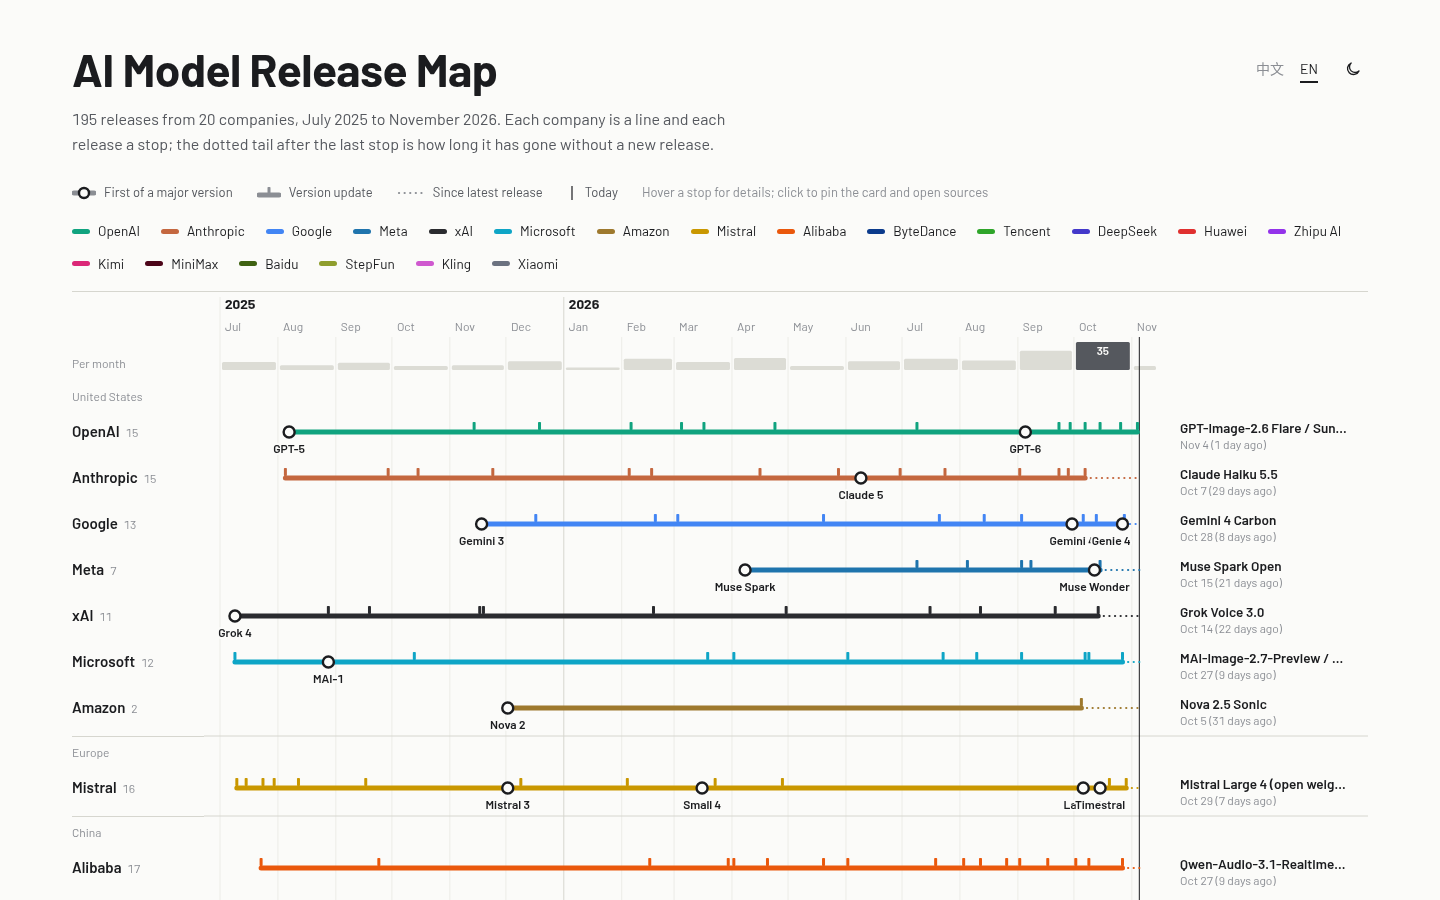
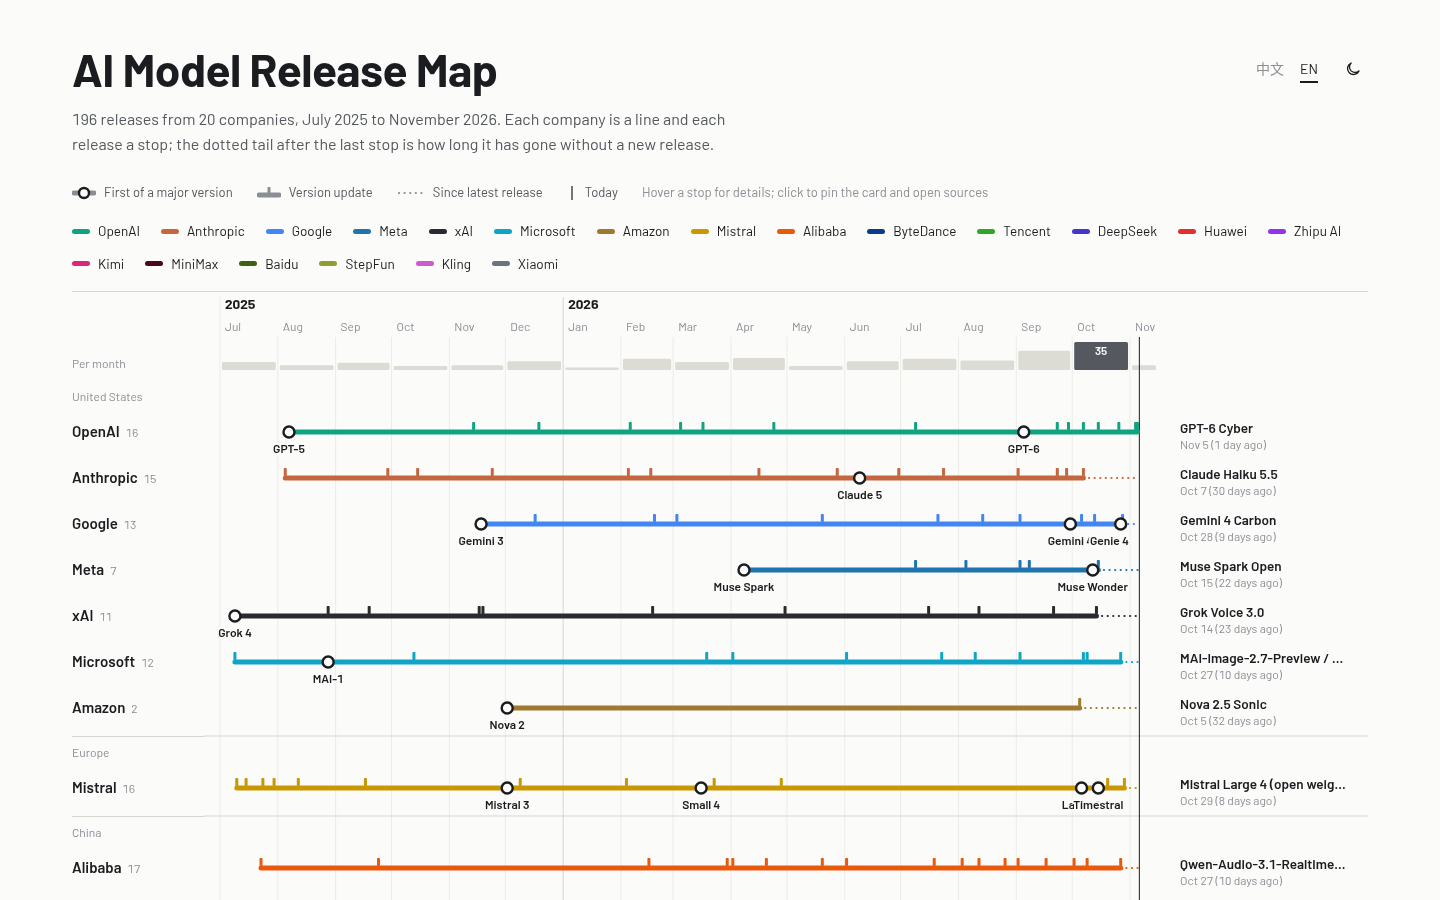
Add OpenAI GPT-6 Cyber (2026-11-05 official)

diff --git a/index.html b/index.html
@@ -192,6 +192,7 @@ const DATA=[
 {company:"OpenAI",model:"GPT-Live-1.1 / GPT-Live-1.1 Quip",date:"2026-10-15",source:"https://deploymentsafety.openai.com/gpt-live-1-1"},
 {company:"OpenAI",model:"GPT-6.1 Terra",date:"2026-10-26",source:"https://openai.com/index/introducing-gpt-6-1-terra"},
 {company:"OpenAI",model:"GPT-Image-2.6 Flare / Sunburst",date:"2026-11-04",source:"https://openai.com/index/introducing-images-2-6"},
+{company:"OpenAI",model:"GPT-6 Cyber",date:"2026-11-05",source:"https://openai.com/index/introducing-gpt-6-cyber/"},
 {company:"Anthropic",model:"Claude Opus 4.1",date:"2025-08-05",source:"https://www.anthropic.com/news/claude-opus-4-1"},
 {company:"Anthropic",model:"Claude Sonnet 4.5",date:"2025-09-29",source:"https://www.anthropic.com/news/claude-sonnet-4-5"},
 {company:"Anthropic",model:"Claude Haiku 4.5",date:"2025-10-15",source:"https://www.anthropic.com/news/claude-haiku-4-5"},
@@ -392,14 +393,14 @@ zh:{title:"AI 模型发布线路图",
  latestH:"各公司最新一站",groups:{us:"美国",eu:"欧洲",cn:"中国"},monthly:"每月发布",mon:m=>`${m}月`,d:(m,d)=>`${m}月${d}日`,full:(y,m,d)=>`${y}年${m}月${d}日`,
  ago:n=>n<=0?"今天":`${n} 天前`,sub:(dt,ago)=>`${dt}（${ago}）`,count:n=>`${n} 次`,off:"官方",third:"第三方",
  tbl:n=>`以表格查看全部 ${n} 次发布`,cols:["日期","公司","模型","来源"],filt:"显示或隐藏线路",themeL:"切换深浅色",
- foot:'数据来源：<a href="https://modeltimeline.com/zh/" target="_blank" rel="noopener">modeltimeline.com/zh</a>、<a href="https://www.datalearner.com/whats-new" target="_blank" rel="noopener">DataLearner</a>、各公司官方公告（OpenAI、Anthropic、Google、Meta、阿里云、DeepSeek、Kimi、字节跳动 Seed、腾讯、华为、xAI、Microsoft AI、Amazon、Mistral、MiniMax、百度、阶跃星辰、快手可灵、小米 MiMo 等）及新闻报道。仅收录在来源中实际查到的条目，同一天发布的多个型号合并为一站。整理日期：2026-11-05。'},
+ foot:'数据来源：<a href="https://modeltimeline.com/zh/" target="_blank" rel="noopener">modeltimeline.com/zh</a>、<a href="https://www.datalearner.com/whats-new" target="_blank" rel="noopener">DataLearner</a>、各公司官方公告（OpenAI、Anthropic、Google、Meta、阿里云、DeepSeek、Kimi、字节跳动 Seed、腾讯、华为、xAI、Microsoft AI、Amazon、Mistral、MiniMax、百度、阶跃星辰、快手可灵、小米 MiMo 等）及新闻报道。仅收录在来源中实际查到的条目，同一天发布的多个型号合并为一站。整理日期：2026-11-06。'},
 en:{title:"AI Model Release Map",
  lede:(n,c)=>`${n} releases from ${c} companies, July 2025 to November 2026. Each company is a line and each release a stop; the dotted tail after the last stop is how long it has gone without a new release.`,
  major:"First of a major version",minor:"Version update",multi:"Several on one day",gap:"Since latest release",today:"Today",hint:"Hover a stop for details; click to pin the card and open sources",
  latestH:"Latest stop by company",groups:{us:"United States",eu:"Europe",cn:"China"},monthly:"Per month",mon:m=>EN_M[m-1],d:(m,d)=>`${EN_M[m-1]} ${d}`,full:(y,m,d)=>`${EN_M[m-1]} ${d}, ${y}`,
  ago:n=>n<=0?"today":n==1?"1 day ago":`${n} days ago`,sub:(dt,ago)=>`${dt} (${ago})`,count:n=>`${n}`,off:"Official",third:"Third-party",
  tbl:n=>`View all ${n} releases as a table`,cols:["Date","Company","Model","Source"],filt:"Show or hide lines",themeL:"Toggle dark mode",
- foot:'Sources: <a href="https://modeltimeline.com/zh/" target="_blank" rel="noopener">modeltimeline.com/zh</a>, <a href="https://www.datalearner.com/whats-new" target="_blank" rel="noopener">DataLearner</a>, official announcements (OpenAI, Anthropic, Google, Meta, Alibaba Cloud, DeepSeek, Kimi, ByteDance Seed, Tencent, Huawei, xAI, Microsoft AI, Amazon, Mistral, MiniMax, Baidu, StepFun, Kuaishou Kling, Xiaomi MiMo, etc.) and news reports. Only entries actually found in sources are included; models released on the same day are merged into one stop. Compiled: 2026-11-05.'},};
+ foot:'Sources: <a href="https://modeltimeline.com/zh/" target="_blank" rel="noopener">modeltimeline.com/zh</a>, <a href="https://www.datalearner.com/whats-new" target="_blank" rel="noopener">DataLearner</a>, official announcements (OpenAI, Anthropic, Google, Meta, Alibaba Cloud, DeepSeek, Kimi, ByteDance Seed, Tencent, Huawei, xAI, Microsoft AI, Amazon, Mistral, MiniMax, Baidu, StepFun, Kuaishou Kling, Xiaomi MiMo, etc.) and news reports. Only entries actually found in sources are included; models released on the same day are merged into one stop. Compiled: 2026-11-06.'},};
 
 const qp=new URLSearchParams(location.search);
 const store={get:k=>{try{return localStorage.getItem(k)}catch(e){return null}},set:(k,v)=>{try{localStorage.setItem(k,v)}catch(e){}}};
